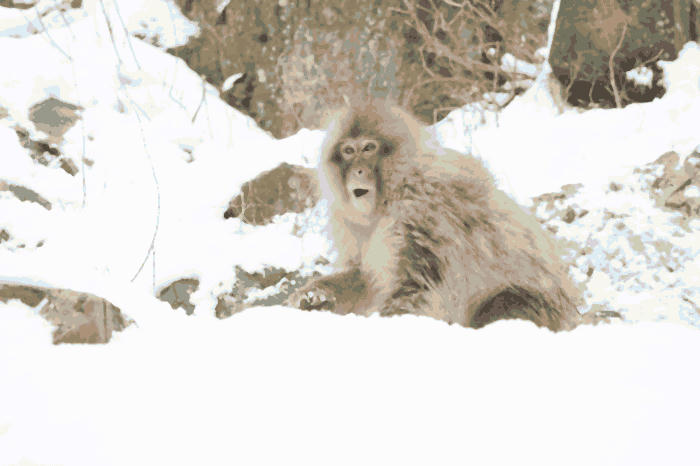
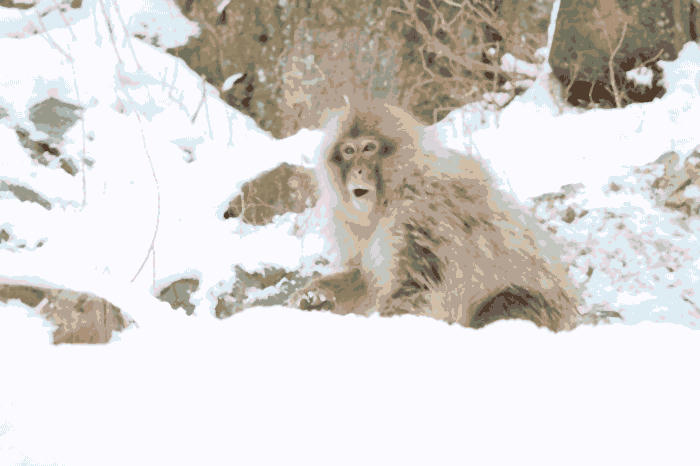
additional refactor - split some functions to separate files

diff --git a/src/main.rs b/src/main.rs
@@ -1,101 +1,12 @@
-use image::{DynamicImage, ImageReader, RgbaImage, ImageBuffer, GrayImage, RgbImage};
-use image::imageops;
-use imagequant::RGBA;
-use rgb::FromSlice;
-use quantize_palette::palette::{Metric, Palette};
-use quantize_palette::quantize::{quantize, AlphaMode, Dither};
-mod importance_map;
-
+use image::DynamicImage;
 use std::time::Instant;
-use std::time::Duration;
 
-fn load_and_resize_img(name: &str, width: u32, height: Option<u32>, keep_proportions: bool) -> Result<RgbaImage, Box<dyn std::error::Error>> {
-    let img = ImageReader::open(name)?.decode()?;
+mod importance_map;
+mod image_io;
+mod color_reduction;
+mod dmc;
 
-    let new_height = if keep_proportions {
-        (width as f32 * img.height() as f32 / img.width() as f32) as u32
-    } else {
-        height.ok_or("Height is required when proportions are disabled")?
-    };
-    
-    let resized = imageops::resize(&img, width, new_height, imageops::FilterType::Lanczos3);
-    Ok(resized)
-}
-
-//fn apply_median_filter()
-
-fn quantize_image(img: &RgbaImage, num_colors: u8) -> Result<RgbaImage, Box<dyn std::error::Error>> {
-    let width = img.width();
-    let height = img.height();
-
-    let pixels: Vec<RGBA> = img.as_raw().as_rgba().to_vec();
-
-    let mut liq = imagequant::new();
-    liq.set_max_colors(num_colors as u32)?;
-
-    let mut liq_img = liq.new_image(pixels, width as usize, height as usize, 0.0)?;
-
-    let mut res = liq.quantize(&mut liq_img)?;
-    res.set_dithering_level(1.0)?;
-
-    let (palette, indices) = res.remapped(&mut liq_img)?;
-
-    let raw_buf: Vec<u8> = indices
-        .iter()
-        .flat_map(|&idx| {
-            let c = palette[idx as usize];
-            [c.r, c.g, c.b, c.a]
-        })
-        .collect();
-
-    RgbaImage::from_raw(width, height, raw_buf)
-        .ok_or_else(|| "Wrong buffer size".into())
-}
-
-#[derive(Debug)]
-struct DmcColor {
-    dmc_code: String,
-    color_name: String,
-    rgb: [u8; 3],
-}
-
-fn colors_csv_to_vec(path: &str) -> Result<Vec<DmcColor>, Box<dyn std::error::Error>> {
-    let mut colors = Vec::new();
-    let mut rdr = csv::Reader::from_path(path)?;
-    for result in rdr.records() {
-        let record = result?;
-        let dmc_code = record[0].trim().to_string();
-        let color_name = record[1].trim().to_string();
-        let r: u8 = record[3].trim().parse()?;
-        let g: u8 = record[4].trim().parse()?;
-        let b: u8 = record[5].trim().parse()?;
-
-        let color = DmcColor { dmc_code, color_name, rgb: [r, g, b]};
-        colors.push(color);
-    }
-
-    Ok(colors)
-}
-
-fn save_image(img: &RgbaImage, out_path: &str) -> Result<(), Box<dyn std::error::Error>> {
-    let ext = std::path::Path::new(out_path)
-        .extension()
-        .and_then(|e| e.to_str())
-        .unwrap_or("")
-        .to_lowercase();
-
-    match ext.as_str() {
-        "jpg" | "jpeg" | "bmp" => {
-            image::DynamicImage::ImageRgba8(img.clone()).to_rgb8().save(out_path)?;
-        }
-        _ => {
-            img.save(out_path)?;
-        }
-    }
-    Ok(())
-}
-
-
+use importance_map::ImportanceMap;
 
 fn main() -> Result<(), Box<dyn std::error::Error>> {
     let start = Instant::now();
@@ -106,35 +17,21 @@ fn main() -> Result<(), Box<dyn std::error::Error>> {
     let full_path = format!("test_images/{img_name}");
     let out_path = format!("test_images/processed_images/{img_name}");
 
-    let resized = load_and_resize_img(&full_path, 700, None, true)?;
-    let quantized = quantize_image(&resized, 16)?;
+    let resized = image_io::load_and_resize(&full_path, 700, None, true)?;
 
+    let importance_map = ImportanceMap::from(&DynamicImage::ImageRgba8(resized.clone()));
+    let importance = importance_map.as_u8_map();
+
+    let quantized = color_reduction::quantize(&resized, 16, Some(importance))?;
     println!("{} x {}", quantized.width(), quantized.height());
 
-    let colors = colors_csv_to_vec("dmc_palette.csv")?;
+    let colors = dmc::load_palette("dmc_palette.csv")?;
+    let mapped = dmc::map_to_palette(&quantized, &colors);
 
-    let mut for_palette = Vec::new();
-    for color in &colors {
-        let rgb = color.rgb;
-        for_palette.push(rgb);
-    }
+    let filtered = imageproc::filter::median_filter(&mapped, 1, 1);
+    image_io::save(&filtered, &out_path)?;
 
-
-    let palette = Palette::from_colors(for_palette);
-
-    let out = quantize(&quantized, &palette, Metric::Oklab, AlphaMode::Binarize(128), Dither::None);
-
-    let filtered = imageproc::filter::median_filter(&out, 1, 1);
-
-    save_image(&filtered, &out_path)?;
-
-    let dynamic = DynamicImage::ImageRgba8(filtered.clone());
-    let mut immap = importance_map::ImportanceMap::from(&dynamic);
-
-    let norm = immap.compute();
-
-    let duration = start.elapsed();
-    println!("{:?}", duration);
+    println!("{:?}", start.elapsed());
 
     Ok(())
 }

diff --git a/src/dmc.rs b/src/dmc.rs
@@ -1,0 +1,34 @@
+use image::RgbaImage;
+use quantize_palette::palette::{Metric, Palette};
+use quantize_palette::quantize::{self, AlphaMode, Dither};
+
+#[derive(Debug)]
+pub struct DmcColor {
+    pub dmc_code: String,
+    pub color_name: String,
+    pub rgb: [u8; 3],
+}
+
+pub fn load_palette(path: &str) -> Result<Vec<DmcColor>, Box<dyn std::error::Error>> {
+    let mut colors = Vec::new();
+    let mut rdr = csv::Reader::from_path(path)?;
+    for result in rdr.records() {
+        let record = result?;
+        let dmc_code = record[0].trim().to_string();
+        let color_name = record[1].trim().to_string();
+        let r: u8 = record[3].trim().parse()?;
+        let g: u8 = record[4].trim().parse()?;
+        let b: u8 = record[5].trim().parse()?;
+
+        colors.push(DmcColor { dmc_code, color_name, rgb: [r, g, b] });
+    }
+
+    Ok(colors)
+}
+
+pub fn map_to_palette(img: &RgbaImage, colors: &[DmcColor]) -> RgbaImage {
+    let for_palette: Vec<[u8; 3]> = colors.iter().map(|c| c.rgb).collect();
+    let palette = Palette::from_colors(for_palette);
+
+    quantize::quantize(img, &palette, Metric::Oklab, AlphaMode::Binarize(128), Dither::None)
+}

diff --git a/src/importance_map.rs b/src/importance_map.rs
@@ -30,10 +30,32 @@ impl ImportanceMap {
 
     }
 
+    // fn get_segments(&self, block_size: u32) -> Vec<(u32, u32, RgbImage)> {
+    //     let (width, height) = &self.image.dimensions();
+    //     let mut segments = Vec::new();
+
+    //     for y in (0..height).step_by(block_size as usize) {
+    //         if y + block_size > height { break; }
+    //         for x in (0..width).step_by(block_size as usize) {
+    //             if x + block_size > width { break; }
+    //             let segment = image::imageops::crop_imm(&self.image, x, y, block_size, block_size).to_image();
+    //             segments.push((x, y, segment));
+    //         }
+    //     }
+    //     segments
+    // }
+ 
+
     pub fn compute(&mut self) -> Vec<f32> {
         let grayscale = self.perform_sobel();
         grayscale
     }
+
+    pub fn as_u8_map(&self) -> Vec<u8> {
+    let gray = image::imageops::grayscale(&self.image);
+    let gradients = sobel_gradients(&gray);
+    gradients.as_raw().iter().map(|&v| v.min(255) as u8).collect()
+}
 
     pub fn image(&self) -> &RgbImage {
         &self.image

diff --git a/src/image_io.rs b/src/image_io.rs
@@ -1,0 +1,32 @@
+use image::{DynamicImage, ImageReader, RgbaImage};
+use image::imageops;
+
+pub fn load_and_resize(name: &str, width: u32, height: Option<u32>, keep_proportions: bool) -> Result<RgbaImage, Box<dyn std::error::Error>> {
+    let img = ImageReader::open(name)?.decode()?;
+
+    let new_height = if keep_proportions {
+        (width as f32 * img.height() as f32 / img.width() as f32) as u32
+    } else {
+        height.ok_or("Height is required when proportions are disabled")?
+    };
+
+    Ok(imageops::resize(&img, width, new_height, imageops::FilterType::Lanczos3))
+}
+
+pub fn save(img: &RgbaImage, out_path: &str) -> Result<(), Box<dyn std::error::Error>> {
+    let ext = std::path::Path::new(out_path)
+        .extension()
+        .and_then(|e| e.to_str())
+        .unwrap_or("")
+        .to_lowercase();
+
+    match ext.as_str() {
+        "jpg" | "jpeg" | "bmp" => {
+            DynamicImage::ImageRgba8(img.clone()).to_rgb8().save(out_path)?;
+        }
+        _ => {
+            img.save(out_path)?;
+        }
+    }
+    Ok(())
+}

diff --git a/src/color_reduction.rs b/src/color_reduction.rs
@@ -1,0 +1,35 @@
+use image::RgbaImage;
+use imagequant::RGBA;
+use rgb::FromSlice;
+
+pub fn quantize(img: &RgbaImage, num_colors: u8, importance: Option<Vec<u8>>) -> Result<RgbaImage, Box<dyn std::error::Error>> {
+    let width = img.width();
+    let height = img.height();
+
+    let pixels: Vec<RGBA> = img.as_raw().as_rgba().to_vec();
+
+    let mut liq = imagequant::new();
+    liq.set_max_colors(num_colors as u32)?;
+
+    let mut liq_img = liq.new_image(pixels, width as usize, height as usize, 0.0)?;
+
+    if let Some(map) = importance {
+        liq_img.set_importance_map(map)?;
+    }
+
+    let mut res = liq.quantize(&mut liq_img)?;
+    res.set_dithering_level(1.0)?;
+
+    let (palette, indices) = res.remapped(&mut liq_img)?;
+
+    let raw_buf: Vec<u8> = indices
+        .iter()
+        .flat_map(|&idx| {
+            let c = palette[idx as usize];
+            [c.r, c.g, c.b, c.a]
+        })
+        .collect();
+
+    RgbaImage::from_raw(width, height, raw_buf)
+        .ok_or_else(|| "Wrong buffer size".into())
+}
